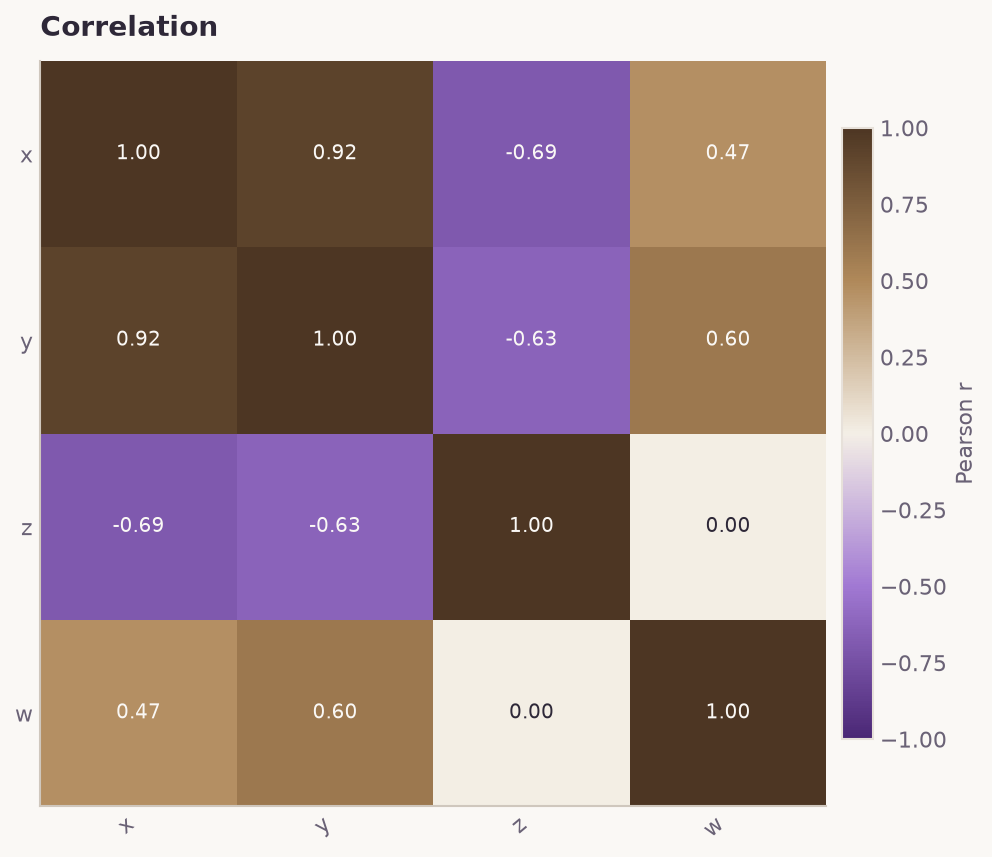
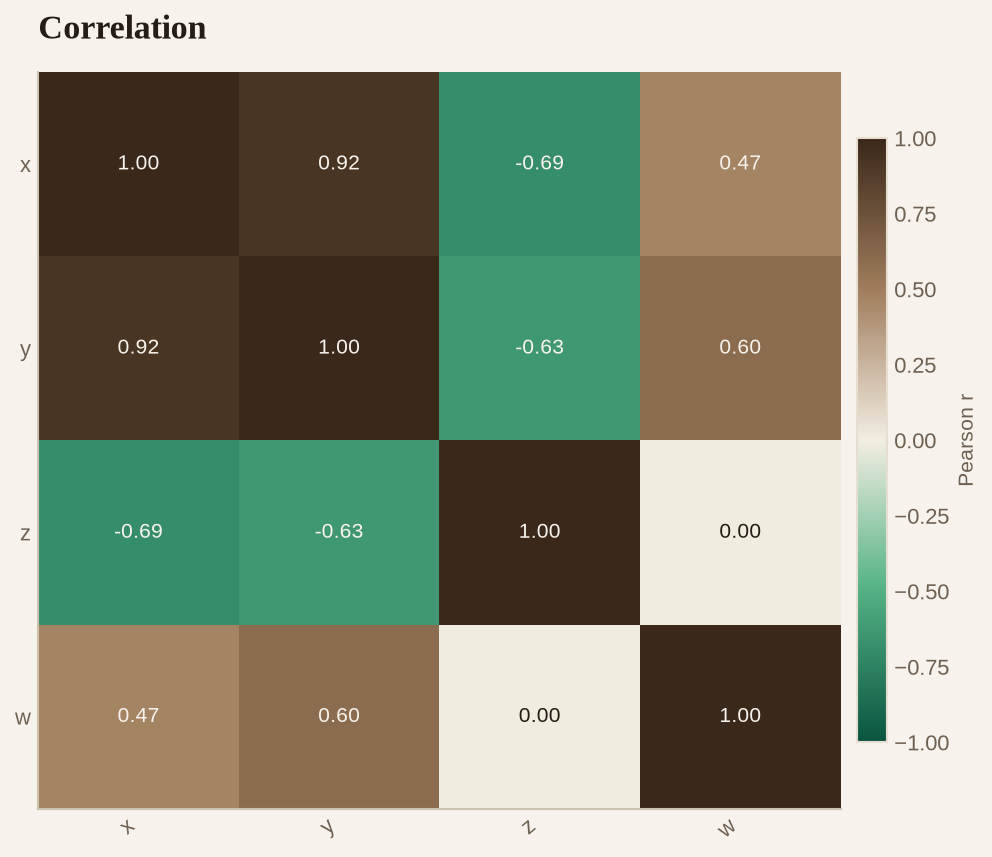
Retheme plumage: emerald + espresso palette, editorial serif type
Recenter the color system on emerald (primary) and espresso (secondary),
replacing the purple/brown palette: new sequential ramps, an emerald-led
categorical set interleaved with espresso, and an emerald<->espresso diverging
map on a warm cream midpoint. Colormaps are renamed plumage_emerald /
plumage_espresso / plumage_diverging.

Give the theme an editorial feel: warm paper surface, soft espresso ink,
left-aligned bold serif titles (Liberation Serif) over a clean sans
(Liberation Sans) for data labels, larger title sizes and more generous
spacing for readability. The Trout example gains a serif headline and italic
serif deck.

Regenerate the gallery and the Trout swing-rate figure, and update the README,
docs, mkdocs, and package metadata to match. Core library stays at 199 lines
of code.

Claude-Session: https://claude.ai/code/session_014P2ZsnZatQ36SeqQ8vJ1yF

diff --git a/src/plumage/__init__.py b/src/plumage/__init__.py
@@ -1,11 +1,13 @@
 """plumage — a compact matplotlib data-visualization library.
 
-Purple is the *primary* hue family (headline series, lead categorical slot,
-default sequential ramp); muted brown is the *secondary* family (supporting
-series, alternate ramp, warm pole of the purple<->brown diverging map). Drawn
-with matplotlib only. Chart helpers return the Axes so results compose with
-matplotlib. House rules: one hue per series in fixed order (never cycled), a
-legend only for >= 2 series, selective direct labels, recessive chrome.
+An editorial look on warm paper: **emerald** is the primary hue family
+(headline series, lead categorical slot, default sequential ramp) and
+**espresso** is the secondary family (supporting series, alternate ramp, warm
+pole of the emerald<->espresso diverging map). Titles set in a serif, data
+labels in a clean sans. Drawn with matplotlib only. Chart helpers return the
+Axes so results compose with matplotlib. House rules: one hue per series in
+fixed order (never cycled), a legend only for >= 2 series, selective direct
+labels, recessive chrome.
 
     >>> import plumage as pl; pl.use_theme()
     >>> df = pl.datasets.monthly_channels()
@@ -23,33 +25,33 @@ from . import datasets  # noqa: F401  (re-exported convenience)
 
 __version__ = "0.1.0"
 
-# Ink & surface (warm, near-neutral chrome).
-INK, INK_SOFT = "#2e2838", "#6a6276"
-SURFACE, GRID, AXIS = "#faf8f5", "#e7e1da", "#cfc7bd"
+# Ink & surface: warm paper chrome for an editorial, print-like feel.
+INK, INK_SOFT = "#241d16", "#6f6152"
+SURFACE, GRID, AXIS = "#f7f3ec", "#e6ded1", "#cdc2b0"
 
-# Sequential ramps, light->dark (steps 100..700): purple primary, brown secondary.
-PURPLE = {100: "#f2ecfa", 200: "#dccbf0", 300: "#c0a4e3", 400: "#a179d3",
-          500: "#8352bf", 600: "#67399e", 700: "#4a2775"}
-BROWN = {100: "#f2ebe2", 200: "#e0d0bb", 300: "#caac82", 400: "#b0895a",
-         500: "#916a43", 600: "#6f4f33", 700: "#4d3623"}
-PRIMARY, SECONDARY = PURPLE[500], BROWN[400]
+# Sequential ramps, light->dark (steps 100..700): emerald primary, espresso secondary.
+EMERALD = {100: "#e5f3ec", 200: "#c1e5d3", 300: "#8fceac", 400: "#52b184",
+           500: "#1f9566", 600: "#107a55", 700: "#0a5540"}
+ESPRESSO = {100: "#efe7df", 200: "#dcc9b8", 300: "#c1a488", 400: "#a07d5c",
+            500: "#7a583a", 600: "#573d28", 700: "#3a281a"}
+PRIMARY, SECONDARY = EMERALD[600], ESPRESSO[500]
 
-# Categorical: purple-led, interleaved with browns so neighbours differ.
-CATEGORICAL = ["#5b3a8c", "#b0895a", "#9575cd", "#6f4f33",
-               "#7e4f9e", "#caac82", "#3f2266", "#916a43"]
-CATEGORICAL_NAMES = ["amethyst", "sienna", "lavender", "umber",
-                     "orchid", "fawn", "indigo", "walnut"]
-DIVERGING_STOPS = [PURPLE[700], PURPLE[400], "#f4efe6", BROWN[400], BROWN[700]]
+# Categorical: emerald-led, interleaved with espresso so neighbours differ.
+CATEGORICAL = ["#0a5540", "#a07d5c", "#3aa87d", "#573d28",
+               "#8fceac", "#7a583a", "#12805d", "#c8ad8a"]
+CATEGORICAL_NAMES = ["pine", "caramel", "emerald", "cacao",
+                     "mint", "espresso", "viridian", "fawn"]
+DIVERGING_STOPS = [EMERALD[700], EMERALD[400], "#f2ede2", ESPRESSO[400], ESPRESSO[700]]
 
 
 def _ramp(name, steps):
     return LinearSegmentedColormap.from_list(name, [steps[k] for k in sorted(steps)])
 
-PURPLE_CMAP = _ramp("plumage_purple", PURPLE)
-BROWN_CMAP = _ramp("plumage_brown", BROWN)
+EMERALD_CMAP = _ramp("plumage_emerald", EMERALD)
+ESPRESSO_CMAP = _ramp("plumage_espresso", ESPRESSO)
 DIVERGING_CMAP = LinearSegmentedColormap.from_list("plumage_diverging", DIVERGING_STOPS)
-_CMAPS = {"plumage_purple": PURPLE_CMAP, "plumage_purple_r": PURPLE_CMAP.reversed(),
-          "plumage_brown": BROWN_CMAP, "plumage_brown_r": BROWN_CMAP.reversed(),
+_CMAPS = {"plumage_emerald": EMERALD_CMAP, "plumage_emerald_r": EMERALD_CMAP.reversed(),
+          "plumage_espresso": ESPRESSO_CMAP, "plumage_espresso_r": ESPRESSO_CMAP.reversed(),
           "plumage_diverging": DIVERGING_CMAP, "plumage_diverging_r": DIVERGING_CMAP.reversed()}
 
 
@@ -68,9 +70,9 @@ def categorical(n=None):
     return CATEGORICAL[:n]
 
 
-def sequential(n, family="purple"):
-    """``n`` evenly spaced colors sampled from the purple or brown ramp."""
-    cmap = {"purple": PURPLE_CMAP, "brown": BROWN_CMAP}[family]
+def sequential(n, family="emerald"):
+    """``n`` evenly spaced colors sampled from the emerald or espresso ramp."""
+    cmap = {"emerald": EMERALD_CMAP, "espresso": ESPRESSO_CMAP}[family]
     return [to_hex(cmap(0.6))] if n == 1 else [to_hex(cmap(i / (n - 1))) for i in range(n)]
 
 
@@ -92,18 +94,19 @@ def use_theme(base=10.5):
         "figure.constrained_layout.use": True,
         "axes.edgecolor": AXIS, "axes.linewidth": 1.0, "axes.axisbelow": True,
         "axes.spines.top": False, "axes.spines.right": False,
-        "axes.grid": True, "axes.grid.axis": "y", "grid.color": GRID, "grid.linewidth": 0.8,
-        "axes.prop_cycle": cycler(color=CATEGORICAL), "image.cmap": "plumage_purple",
+        "axes.grid": True, "axes.grid.axis": "y", "grid.color": GRID, "grid.linewidth": 0.9,
+        "axes.prop_cycle": cycler(color=CATEGORICAL), "image.cmap": "plumage_emerald",
         "patch.edgecolor": SURFACE, "patch.force_edgecolor": True,
-        "text.color": INK, "axes.labelcolor": INK, "axes.titlecolor": INK,
+        "text.color": INK, "axes.labelcolor": INK_SOFT, "axes.titlecolor": INK,
         "xtick.color": INK_SOFT, "ytick.color": INK_SOFT,
         "xtick.labelcolor": INK_SOFT, "ytick.labelcolor": INK_SOFT,
         "xtick.major.size": 0.0, "ytick.major.size": 0.0,
-        "font.family": "sans-serif", "font.size": base,
-        "axes.titlesize": base + 3, "axes.titleweight": "bold", "axes.titlelocation": "left",
-        "axes.titlepad": 12, "axes.labelsize": base, "legend.fontsize": base - 1,
-        "figure.titlesize": base + 6, "figure.titleweight": "bold",
-        "legend.frameon": False, "lines.linewidth": 2.2, "lines.solid_capstyle": "round",
+        "font.family": "sans-serif", "font.size": base,   # sans for data; serif for titles
+        "font.sans-serif": ["Liberation Sans", "Helvetica", "Arial", "DejaVu Sans"],
+        "font.serif": ["Liberation Serif", "DejaVu Serif", "Georgia", "Times New Roman"],
+        "axes.titlesize": base + 6, "axes.titleweight": "bold", "axes.titlelocation": "left",
+        "axes.titlepad": 16, "axes.labelsize": base - 0.5, "legend.fontsize": base - 0.5,
+        "legend.frameon": False, "lines.linewidth": 2.4, "lines.solid_capstyle": "round",
     })
 
 
@@ -118,11 +121,11 @@ def _ax(ax, figsize):
 
 
 def _done(ax, title=None, xlabel=None, ylabel=None):
-    """Set optional axis labels + left-aligned title, then return the Axes."""
+    """Set optional axis labels + a left-aligned serif title, then return the Axes."""
     ax.set_xlabel(xlabel)
     ax.set_ylabel(ylabel)
     if title:
-        ax.set_title(title)
+        ax.set_title(title, fontfamily="serif")
     return ax
 
 
@@ -220,7 +223,7 @@ def scatter(x, y, *, groups=None, ax=None, size=34, title=None,
 
 def histogram(values, *, bins=30, ax=None, color=None, title=None,
               xlabel=None, ylabel="Count", figsize=(7, 4.4)):
-    """Single-series histogram in the primary purple."""
+    """Single-series histogram in the primary emerald."""
     ax = _ax(ax, figsize)
     ax.hist(np.asarray(values), bins=bins, color=color or PRIMARY,
             edgecolor=SURFACE, linewidth=0.7, zorder=3)
@@ -228,7 +231,7 @@ def histogram(values, *, bins=30, ax=None, color=None, title=None,
 
 
 def heatmap(matrix, *, row_labels=None, col_labels=None, ax=None,
-            cmap="plumage_purple", diverging=False, annotate=True,
+            cmap="plumage_emerald", diverging=False, annotate=True,
             fmt="{:.2f}", cbar_label=None, title=None, figsize=(6.5, 5.4)):
     """Heatmap for a 2-D array or DataFrame; ``diverging=True`` centers on zero."""
     ax = _ax(ax, figsize)

diff --git a/reports/trout_swing_rate.py b/reports/trout_swing_rate.py
@@ -2,7 +2,7 @@
 
 A worked example that exercises the plumage library on a real Statcast dataset
 (one row per pitch Trout saw in 2023). It computes his swing rate in each
-pitch-type x zone-bucket cell and renders it as a sequential-purple heatmap.
+pitch-type x zone-bucket cell and renders it as a sequential-emerald heatmap.
 
 Usage::
 
@@ -67,20 +67,20 @@ def main(path: Path) -> None:
     overall = df["swing"].mean()
 
     pl.use_theme()
-    ax = pl.heatmap(rate, cmap="plumage_purple", fmt="{:.0%}",
-                    cbar_label="Swing rate", figsize=(7.6, 5.6))
+    ax = pl.heatmap(rate, cmap="plumage_emerald", fmt="{:.0%}",
+                    cbar_label="Swing rate", figsize=(7.8, 5.8))
     ax.set_xlabel("Zone bucket (top of strike zone → bottom)")
     ax.set_ylabel("Pitch type")
-    # Two-line header stacked above the plot so it never overlaps the grid.
-    ax.annotate("Mike Trout — 2023 swing rate", xy=(0, 1.0),
-                xycoords="axes fraction", xytext=(0, 40), textcoords="offset points",
-                color=pl.INK, fontweight="bold",
+    # Editorial header stacked above the plot: serif headline over an italic deck.
+    ax.annotate("Mike Trout swings less at what he can't reach", xy=(0, 1.0),
+                xycoords="axes fraction", xytext=(0, 44), textcoords="offset points",
+                color=pl.INK, fontfamily="serif", fontweight="bold",
                 fontsize=plt.rcParams["axes.titlesize"], va="bottom")
-    ax.annotate(f"{len(df):,} pitches · overall swing rate {overall:.0%} · "
-                f"cells with < {MIN_CELL} pitches left blank",
-                xy=(0, 1.0), xycoords="axes fraction", xytext=(0, 20),
-                textcoords="offset points", color=pl.INK_SOFT, va="bottom",
-                fontsize=plt.rcParams["legend.fontsize"])
+    ax.annotate(f"2023 swing rate by pitch type and zone · {len(df):,} pitches · "
+                f"overall {overall:.0%} · cells under {MIN_CELL} pitches left blank",
+                xy=(0, 1.0), xycoords="axes fraction", xytext=(0, 22),
+                textcoords="offset points", color=pl.INK_SOFT, fontstyle="italic",
+                fontfamily="serif", va="bottom", fontsize=plt.rcParams["legend.fontsize"])
 
     fig_out = ROOT / "reports" / "figures" / "trout_swing_rate.png"
     ax.figure.savefig(fig_out)

diff --git a/src/plumage/gallery.py b/src/plumage/gallery.py
@@ -26,20 +26,20 @@ def swatches(ax=None, figsize=(8, 3.4)):
     ax.set_axis_off()
 
     def row(y, colors, names, heading):
-        ax.text(-0.4, y + 0.55, heading, color=pl.INK_SOFT, fontweight="bold",
-                fontsize=plt.rcParams["legend.fontsize"])
+        ax.text(-0.4, y + 1.06, heading, color=pl.INK, fontfamily="serif",
+                fontweight="bold", fontsize=plt.rcParams["axes.labelsize"] + 1)
         for i, (c, name) in enumerate(zip(colors, names)):
             ax.add_patch(plt.Rectangle((i, y), 0.9, 0.9, facecolor=c,
                                        edgecolor=pl.SURFACE, linewidth=2))
             ax.text(i + 0.45, y - 0.22, name, ha="center", va="top",
                     color=pl.INK_SOFT, fontsize=8)
 
-    steps = [str(k) for k in sorted(pl.PURPLE)]
+    steps = [str(k) for k in sorted(pl.EMERALD)]
     row(4.0, pl.CATEGORICAL, pl.CATEGORICAL_NAMES, "Categorical")
-    row(2.0, [pl.PURPLE[k] for k in sorted(pl.PURPLE)], steps, "Purple (primary)")
-    row(0.0, [pl.BROWN[k] for k in sorted(pl.BROWN)], steps, "Brown (secondary)")
+    row(2.0, [pl.EMERALD[k] for k in sorted(pl.EMERALD)], steps, "Emerald (primary)")
+    row(0.0, [pl.ESPRESSO[k] for k in sorted(pl.ESPRESSO)], steps, "Espresso (secondary)")
     ax.set_xlim(-0.6, len(pl.CATEGORICAL) + 0.2)
-    ax.set_ylim(-0.6, 5.4)
+    ax.set_ylim(-0.6, 5.8)
     ax.set_aspect("equal")
     return ax
 

diff --git a/README.md b/README.md
@@ -1,15 +1,17 @@
 # plumage
 
-A compact **matplotlib** data-visualization library with a considered color
-system: **purple** is the primary hue family and **muted brown** is the
-secondary. Purples carry the headline series, the lead categorical slot, and
-the default sequential ramp; browns carry the supporting series, the alternate
-ramp, and the warm pole of a purple↔brown diverging map. Every chart is drawn
-with matplotlib only — no seaborn or other backends.
+A compact **matplotlib** data-visualization library with an editorial look and
+a considered color system: **emerald** is the primary hue family and
+**espresso** is the secondary. Emeralds carry the headline series, the lead
+categorical slot, and the default sequential ramp; espressos carry the
+supporting series, the alternate ramp, and the warm pole of an emerald↔espresso
+diverging map. Everything sits on warm paper, with **serif titles** over a
+clean sans for data labels. Every chart is drawn with matplotlib only — no
+seaborn or other backends.
 
 The whole visualization library is a single ~200-line module
-(`src/plumage/__init__.py`); the palette lives at the top so the entire look
-retunes from one place.
+(`src/plumage/__init__.py`); the palette and type choices live at the top so
+the entire look retunes from one place.
 
 ![Palette](reports/figures/palette.png)
 
@@ -71,13 +73,13 @@ Everything is exported from the top-level `plumage` package.
 
 | Name | Description |
 | --- | --- |
-| `use_theme(base=10.5)` | Apply the plumage look globally via `rcParams`. |
-| `register_colormaps()` | Register `plumage_purple` / `_brown` / `_diverging` (+ `_r`) with matplotlib. |
+| `use_theme(base=10.5)` | Apply the plumage look globally via `rcParams` (serif titles, sans labels, warm paper). |
+| `register_colormaps()` | Register `plumage_emerald` / `_espresso` / `_diverging` (+ `_r`) with matplotlib. |
 | `categorical(n=None)` | The 8-slot categorical palette, or its first `n` slots. |
-| `sequential(n, family="purple")` | `n` evenly spaced colors from the purple or brown ramp. |
+| `sequential(n, family="emerald")` | `n` evenly spaced colors from the emerald or espresso ramp. |
 | `shade(color, amount)` | Lighten (`>0`) or darken (`<0`) a hex color. |
 
-Color constants: `PURPLE`, `BROWN` (100–700 step dicts), `PRIMARY`,
+Color constants: `EMERALD`, `ESPRESSO` (100–700 step dicts), `PRIMARY`,
 `SECONDARY`, `CATEGORICAL`, `CATEGORICAL_NAMES`, `INK`, `INK_SOFT`, `SURFACE`,
 `GRID`, `AXIS`, and the `*_CMAP` colormaps.
 
@@ -90,9 +92,9 @@ Color constants: `PURPLE`, `BROWN` (100–700 step dicts), `PRIMARY`,
 | `line(x, series, …)` | Line chart with optional direct end-labels. |
 | `area(x, series, stacked=True, …)` | Stacked or overlaid area chart. |
 | `scatter(x, y, groups=None, …)` | Scatter, optionally colored by a categorical array. |
-| `histogram(values, bins=30, …)` | Single-series histogram in the primary purple. |
+| `histogram(values, bins=30, …)` | Single-series histogram in the primary emerald. |
 | `heatmap(matrix, diverging=False, …)` | Heatmap for an array/DataFrame; `diverging` centers on zero. |
-| `correlation(df, …)` | Diverging purple↔brown correlation map. |
+| `correlation(df, …)` | Diverging emerald↔espresso correlation map. |
 
 Sample data for demos lives in `plumage.datasets`; the palette card and figure
 gallery live in `plumage.gallery`.
@@ -101,7 +103,7 @@ gallery live in `plumage.gallery`.
 
 `reports/trout_swing_rate.py` runs the library on a real Statcast dataset (one
 row per pitch Mike Trout saw in 2023) and renders his swing rate in each
-**pitch type × zone bucket** as a sequential-purple heatmap — a natural fit,
+**pitch type × zone bucket** as a sequential-emerald heatmap — a natural fit,
 since swing rate is a 0–1 magnitude. Statcast zones are grouped into five
 vertical buckets (the in-zone up/middle/low rows plus the chase quadrants), and
 cells with fewer than 15 pitches are left blank.
@@ -119,13 +121,16 @@ middle and lower thirds hard (50–86%). The tidy numbers land in
 
 ## Design notes
 
+- **Editorial by default.** Warm paper surface, a serif headline over a clean
+  sans for data labels, recessive chrome, and generous spacing — tuned to be
+  aesthetically pleasing and quick to read.
 - **Color follows identity, in fixed order.** Categorical hues are assigned
   slot 1..N and never cycled; a 9th series should fold into "Other" or become
   small multiples (`categorical(9)` raises rather than invent a hue).
-- **Purple leads, brown supports.** Neighbouring categorical slots come from
-  different hue families so adjacent series stay easy to tell apart.
-- **Diverging = two hues + a neutral midpoint.** The purple↔brown map meets at
-  a warm cream that reads as "nothing," so zero never looks like a value.
+- **Emerald leads, espresso supports.** Neighbouring categorical slots come
+  from different hue families so adjacent series stay easy to tell apart.
+- **Diverging = two hues + a neutral midpoint.** The emerald↔espresso map meets
+  at a warm cream that reads as "nothing," so zero never looks like a value.
 - **Recessive chrome.** No top/right spines, a single soft y-grid behind the
   data, muted axis ink, thin marks, and selective direct labels instead of a
   number on every point.

diff --git a/docs/palette.md b/docs/palette.md
@@ -1,36 +1,37 @@
 # Palette
 
 The color system is the point of the library. It is built from two hue
-families defined once at the top of `src/plumage/__init__.py`.
+families defined once at the top of `src/plumage/__init__.py`, on a warm paper
+surface with serif titles over a clean sans.
 
 ![Palette](../reports/figures/palette.png)
 
-## Primary — purple
+## Primary — emerald
 
-A single-hue sequential ramp, `PURPLE[100]` (lightest) → `PURPLE[700]`
+A single-hue sequential ramp, `EMERALD[100]` (lightest) → `EMERALD[700]`
 (darkest). It supplies the lead categorical slot, the default `image.cmap`
-(`plumage_purple`), and the headline series in every chart.
+(`plumage_emerald`), and the headline series in every chart.
 
 ```python
 import plumage as pl
-pl.PRIMARY            # "#8352bf"
-pl.sequential(5)      # 5 evenly spaced purples
+pl.PRIMARY            # "#107a55"
+pl.sequential(5)      # 5 evenly spaced emeralds
 ```
 
-## Secondary — muted brown
+## Secondary — espresso
 
-A parallel single-hue ramp, `BROWN[100]` → `BROWN[700]`. It supplies the
-supporting series, the `plumage_brown` colormap, and the warm pole of the
+A parallel single-hue ramp, `ESPRESSO[100]` → `ESPRESSO[700]`. It supplies the
+supporting series, the `plumage_espresso` colormap, and the warm pole of the
 diverging map.
 
 ```python
-pl.SECONDARY               # "#b0895a"
-pl.sequential(5, "brown")  # 5 evenly spaced browns
+pl.SECONDARY                  # "#7a583a"
+pl.sequential(5, "espresso")  # 5 evenly spaced espressos
 ```
 
 ## Categorical
 
-Eight fixed slots, purple-led and interleaved with browns so that
+Eight fixed slots, emerald-led and interleaved with espressos so that
 *neighbouring* series come from different hue families and stay easy to tell
 apart. Slots are assigned in order and **never cycled** — a ninth series folds
 into "Other" or becomes small multiples.
@@ -43,7 +44,7 @@ pl.categorical(9)     # ValueError — don't invent a hue
 
 ## Diverging
 
-`plumage_diverging` runs purple → cream → brown: two families that read as
+`plumage_diverging` runs emerald → cream → espresso: two families that read as
 opposites, meeting at a warm neutral midpoint that reads as "nothing." Use it
 for signed data such as correlations.
 
@@ -51,6 +52,14 @@ for signed data such as correlations.
 pl.correlation(df)                      # centered on zero automatically
 pl.heatmap(matrix, diverging=True)      # same map, any matrix
 ```
+
+## Type & chrome
+
+- Titles are set in a **serif** (Liberation Serif → DejaVu Serif → Georgia →
+  Times), left-aligned and bold, for an editorial headline feel.
+- Axis labels, ticks, legends, and annotations use a clean **sans** (Liberation
+  Sans → Helvetica → Arial → DejaVu Sans).
+- The surface is a warm paper cream; ink is a soft espresso-black.
 
 ## House rules
 

diff --git a/docs/index.md b/docs/index.md
@@ -1,9 +1,10 @@
 # plumage
 
-A compact matplotlib data-visualization library with a purple-led,
-muted-brown palette. Purples carry the headline series and the default
-sequential ramp; browns carry the supporting series and the warm pole of the
-purple↔brown diverging map. Everything is drawn with matplotlib only.
+A compact matplotlib data-visualization library with an editorial,
+emerald-led, espresso-supported palette. Emeralds carry the headline series and
+the default sequential ramp; espressos carry the supporting series and the warm
+pole of the emerald↔espresso diverging map. Titles are set in a serif over a
+clean sans on warm paper. Everything is drawn with matplotlib only.
 
 ![Palette](../reports/figures/palette.png)
 
